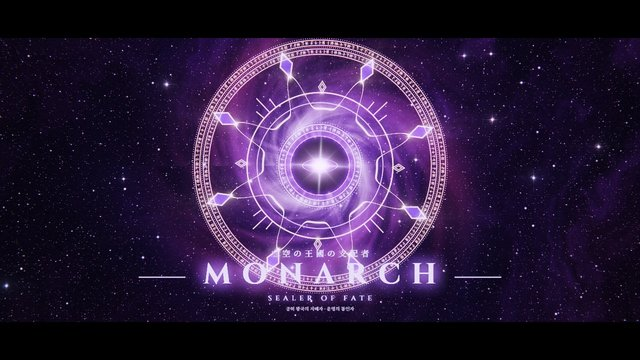
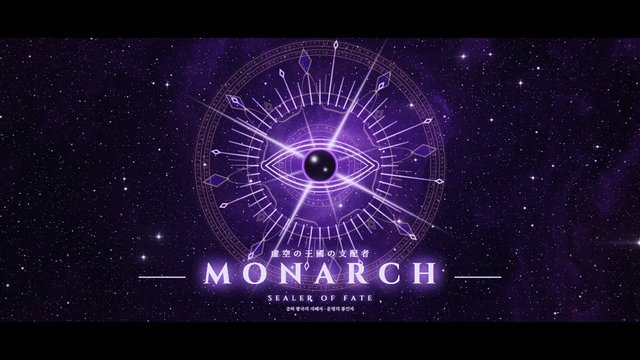
MONARCH V3: central symbol strikes three times at the end
Like the reference ending: an eye in a sunburst of fine rays with a
rotating four-bladed star hits the center at 20.6, 21.3 and 22.0 with a
flash and a thin shockwave; the first two fade, the third holds while
the seal recedes. Title moves to 22.6 and the score gets two more hits.

diff --git a/public/monarch3_gl.html b/public/monarch3_gl.html
@@ -25,7 +25,7 @@
      13.6   흰 섬광 → 13.8 공허: 모든 빛을 삼키는 검은 구, 빨려드는 나선의 빛과 룬의 띠 (모나크의 형체는 그리지 않는다 — 개념만)
      16.6   지배: 세 룬 고리가 공허를 돌고, 만세의 말들이 빛이 되어 무릎 꿇듯 공허로 빨려든다 · 공허에 보랏빛 눈이 뜨인다
      18.6   왕관이라는 개념: 반시계로 도는 여덟 꼭짓점 별과 여덟 다이아 · 서로 반대로 도는 두 후광 · 가운데의 흰 별
-     20.6   운명의 봉인: 모든 고리가 한 평면으로 정렬해 하나의 인장이 되고 21.2 일격 — 虚空の王國の支配者 / MONARCH / SEALER OF FATE
+     20.6   상징이 가운데에 세 번 뜬다(20.6 · 21.3 · 22.0): 가는 빛살 속의 검은 눈 · 도는 네 갈래 칼날 별 → 22.6 虚空の王國の支配者 / MONARCH / SEALER OF FATE
    색: 짙은 보라 공허 · 핏빛으로 번지는 저주 · 흰 별빛 · 남색 · 자홍 성운. 음원: tools/make_monarch3_audio.py (오리지널, 시각표 같음)
    ═══════════════════════════════════════════════════════════════ */
 const TAU = Math.PI * 2, PI = Math.PI;
@@ -40,8 +40,9 @@ const sub = (a, b) => [a[0] - b[0], a[1] - b[1], a[2] - b[2]], add = (a, b) => [
 const cross = (a, b) => [a[1] * b[2] - a[2] * b[1], a[2] * b[0] - a[0] * b[2], a[0] * b[1] - a[1] * b[0]], norm = (a) => { const l = Math.hypot(a[0], a[1], a[2]) || 1; return [a[0] / l, a[1] / l, a[2] / l]; }, mix3 = (a, b, k) => [lerp(a[0], b[0], k), lerp(a[1], b[1], k), lerp(a[2], b[2], k)];
 function camera(pos, tgt, roll) { const f = norm(sub(tgt, pos)), r0 = norm(cross(f, [0, 1, 0])), u0 = cross(r0, f), c = Math.cos(roll), s = Math.sin(roll); return { pos, r: [r0[0] * c + u0[0] * s, r0[1] * c + u0[1] * s, r0[2] * c + u0[2] * s], u: [u0[0] * c - r0[0] * s, u0[1] * c - r0[1] * s, u0[2] * c - r0[2] * s], f }; }
 
-const T = { BG: .5, POP: 1.0, CNT: 1.4, W0: 2.0, LIGHT: 7.8, ZERO: 10.2, FLASH1: 10.4, HAIL: 11.0, FLASH2: 13.6, REVEAL: 13.8, S2: 16.6, S3: 18.6, HERO: 20.6, TITLE: 21.2, END: 26.0 };   // 음원과 같은 시각표
-const CUTS = [T.S2, T.S3, T.HERO], ES = 1.8;                                                                                           // ES: 모나크 배율(셰이더와 같음)
+const T = { BG: .5, POP: 1.0, CNT: 1.4, W0: 2.0, LIGHT: 7.8, ZERO: 10.2, FLASH1: 10.4, HAIL: 11.0, FLASH2: 13.6, REVEAL: 13.8, S2: 16.6, S3: 18.6, HERO: 20.6, TITLE: 22.6, END: 26.0 };
+const SYMS = [20.6, 21.3, 22.0];                                                                                                  // 상징이 뜨는 세 번   // 음원과 같은 시각표
+const CUTS = [T.S2, T.S3], ES = 1.8;                                                                                           // ES: 모나크 배율(셰이더와 같음)
 const KT = 28, TICKS = [...Array(KT + 1)].map((_, k) => T.CNT + (T.ZERO - T.CNT) * Math.pow(k / KT, .6));                              // 인구 계수기 눈금(점점 빨라진다)
 const COUNT = (() => { const r = rng(3000), a = []; for (let k = 0; k <= KT; k++) a.push(k === 0 ? 3e9 : k === KT ? 0 : Math.round(3e9 * (1 - Math.pow(k / KT, 1.35)) * (1 + (r() - .5) * .04))); for (let k = 1; k < KT; k++) a[k] = Math.max(1, Math.min(a[k], a[k - 1] - 1)); return a; })();
 const WORDS = [["IRREVERSIBLE", "돌이킬 수 없는"], ["MERCILESS", "무자비한"], ["GODLESS", "신을 믿지 않는"], ["BLASPHEMY", "신성모독"], ["FALSE SAVIOR", "거짓 구원자"], ["DAMNED", "저주받은"], ["YOU SAVAGE", "이 야만인아"], ["FALL TO RUIN", "폐허로 떨어지다"],
@@ -121,7 +122,7 @@ void main(){
   o = vec4(max(col, 0.), 10.); }`;
 const FS_SIGIL = `#version 300 es
 precision highp float; in vec2 vUv; out vec4 o;
-uniform vec2 uRes; uniform float uT, uZoomV, uRotV, uPanY, uVoidR, uSwirlK, uArmK, uMotes, uEyeK, uCrownK, uHaloK, uStarK, uSealK, uStamp; uniform sampler2D uRunes;
+uniform vec2 uRes; uniform float uT, uZoomV, uRotV, uPanY, uVoidR, uSwirlK, uArmK, uMotes, uEyeK, uCrownK, uHaloK, uStarK, uSealK, uStamp, uSym, uSymS, uBack; uniform sampler2D uRunes;
 ${CSGL.NOISE}
 mat2 rot(float a){ float c = cos(a), s = sin(a); return mat2(c, -s, s, c); }
 float PX;
@@ -147,6 +148,7 @@ void main(){
   float f, lit = exp(-length(c0) * 1.7); vec2 bp = rot(uT * .02 + .3 / (length(c0) + .6)) * c0 * 1.1 / mix(1., uZoomV, .35);                // 배경: 가운데서 비추는 성운 · 세 겹의 별
   vec3 col = vec3(.003, .001, .009) + nebula(bp * .75, lit, uT, f) + vec3(.3, .1, .7) * exp(-length(c0) * 2.5) * .2;
   vec2 sp0 = c0 / mix(1., uZoomV, .5); col += starsL(sp0 * 70. + uT * vec2(.3, -.15), .45, .07) * .45 + starsL(sp0 * 28. + 3.7, .22, .06) * .85 + starsL(c0 / mix(1., uZoomV, .8) * 9. + 1.3, .08, .045) * 1.5;
+  vec3 bgc = col;
   float Rv = .23 * uVoidR, e = r - Rv;
   if (uSwirlK > 0.){ float lr = log(max(r, 1e-3)), spv = an * 3. + lr * 5.5 + uT * 2.4, arms = pow(.5 + .5 * cos(spv), 5.), fil = fbm(vec2(an * 5. + lr * 9. + uT * 1.4, lr * 4. - uT * .8));   // 공허로 빨려드는 세 갈래 나선의 빛
     float fall = smoothstep(Rv, Rv * 1.5, r) * exp(-max(r - Rv, 0.) * 2.6);
@@ -173,7 +175,18 @@ void main(){
     float ai = floor(a1 / 1.5708 + .5), aa = a1 - ai * 1.5708, spikes = 0.; for (int j = -1; j <= 1; j++){ float fj = float(j), L = j == 0 ? .15 : .08; vec2 sd = vec2(cos(aa - fj * .11), sin(aa - fj * .11)) * r; spikes += ln(abs(sd.y), .0022) * step(.58, sd.x) * step(sd.x, .58 + L); }
     float aj = floor((a1 - .785) / 1.5708 + .5), ab = a1 - .785 - aj * 1.5708; vec2 dq = abs(vec2(cos(ab), sin(ab)) * r - vec2(.62, 0.)) / vec2(.047, .029); float dia2 = ln(abs(dq.x + dq.y - 1.) * .025, .0015) + ln(abs(dq.x + dq.y - .55) * .025, .001);   // 두 겹 다이아
     col += gold * (ln(abs(r - .576), .003) * 1.3 + spikes * 1.1 + dia2) * m1 + vec3(.7, .5, 1.) * ln(abs(r - .497), .0018) * m2; }
-  if (uStamp >= 0.){ float rr = length(c0), R = uStamp * 1.7; col += (vec3(1., .85, .6) * exp(-abs(rr - R) * 45.) * 1.4 + vec3(.6, .3, 1.) * exp(-abs(rr - R * .7) * 14.) * .4) * exp(-uStamp * 1.3); }   // 봉인의 일격
+  col = mix(bgc, col, uBack);                                                                                                        // 상징이 뜨면 인장은 뒤로 물러난다
+  if (uSym > 0.){ vec2 p = c0 / uSymS; float r2 = length(p), a = atan(p.y, p.x), n = 48., ai = floor(a / 6.2832 * n + .5), aa = a - ai * 6.2832 / n, big = step(.75, fract(ai / 4.));   // 가운데의 상징: 가는 빛살 속의 검은 눈
+    float L = .4 + .14 * hash(vec2(ai, 3.)) + .12 * big; vec2 rp = vec2(cos(aa), sin(aa)) * r2, tq = rp - vec2(L + .025, 0.);
+    float rays = ln(abs(rp.y), .0012) * step(.34, rp.x) * step(rp.x, L) * (.3 + .7 * smoothstep(L, .34, rp.x)) + ln(abs(abs(tq.x) / .022 + abs(tq.y) / .011 - 1.) * .011, .0012) * big;
+    float W = .3, xx = p.x / W, lid = .12 * max(1. - xx * xx, 0.), de = abs(p.x) < W ? abs(abs(p.y) - lid) : length(vec2(abs(p.x) - W, p.y));   // 눈꺼풀 선 두 겹
+    float lids = ln(de, .0025) * 1.3 + ln(abs(de - .026), .0015) * .6, inside = smoothstep(.101, .099, r2);
+    vec2 q = rot(uT * 1.3) * p, q2 = rot(.785) * q;                                                                                 // 도는 네 갈래 칼날 별
+    float bl = exp(-abs(q.x) * 70. * (1. + abs(q.y) * 7.)) * smoothstep(.9, 0., abs(q.y)) + exp(-abs(q.y) * 70. * (1. + abs(q.x) * 7.)) * smoothstep(.9, 0., abs(q.x));
+    float bl2 = (exp(-abs(q2.x) * 110. * (1. + abs(q2.y) * 9.)) * smoothstep(.45, 0., abs(q2.y)) + exp(-abs(q2.y) * 110. * (1. + abs(q2.x) * 9.)) * smoothstep(.45, 0., abs(q2.x))) * .6;
+    vec3 ball = vec3(.004, 0., .012) + vec3(.4, .14, .9) * smoothstep(.018, 0., abs(r2 - .1)) + vec3(1.) * (exp(-length(p - vec2(-.032, .036)) * 150.) * 1.6 + exp(-length(p - vec2(.03, -.022)) * 240.) * .9);   // 검은 눈알 · 흰 반짝임 둘
+    col = mix(col, ball, inside * min(uSym, 1.)); col += (vec3(.72, .5, 1.) * (rays * .9 + lids) + vec3(.9, .78, 1.) * (bl * 1.05 + bl2 * .8) * (1. - inside * .95) * smoothstep(.06, .16, r2) + vec3(.4, .15, .9) * exp(-r2 * 7.) * .12 * (1. - inside)) * uSym; }
+  if (uStamp >= 0.){ float rr = length(c0), R = uStamp * 1.7; col += (vec3(1., .85, .7) * exp(-abs(rr - R) * 90.) * .8 + vec3(.6, .3, 1.) * exp(-abs(rr - R * .7) * 20.) * .2) * exp(-uStamp * 3.); }   // 봉인의 일격
   o = vec4(max(col, 0.), 10.); }`;
 function lazyProgram(vs, fs) {
   const gl = X.gl, mk = (type, src) => { const sh = gl.createShader(type); gl.shaderSource(sh, src); gl.compileShader(sh); return sh; };
@@ -261,7 +274,7 @@ function drawOverlay(t, S) { SBK = DPR * TXS; tg.setTransform(1, 0, 0, 1, 0, 0);
 /* ═════════════════ 연출: 시각 t → 상태 (순수 함수) ═════════════════ */
 function state(t) {
   const S = { M: [0, 10 * ES, 0], focal: 1.3, focus: 400, aper: 0, eyeK: 1, port: new Float32Array(8), portP: new Float32Array(12), portK: new Float32Array(4), flash: 0, shock: -1, power: 0, crackK: 1, orbI: 1, fade: 0, shake: 0, rays: .1, bloom: .6,
-    zoomV: 1, rotV: 0, panY: 0, voidR: 0, diskK: 0, armK: 0, armA: 0, motes: 0, sealK: 0, stamp: -1, voidK: 0, orbK: 1, auraK: 1, wispK: 1, hornK: 1, crownK: 1, haloK: 1, topK: 1, ringK: 1, emerge: 0, trans: 0, spinA: t * .4, ringA: t * .05, skyRing: 1, bg: 0, iringK: 0, starK: 0, ieyeK: 0, dread: 0, light: 0, hail: 0, spin: 0 };
+    zoomV: 1, rotV: 0, panY: 0, sym: 0, symS: 1, back: 1, voidR: 0, diskK: 0, armK: 0, armA: 0, motes: 0, sealK: 0, stamp: -1, voidK: 0, orbK: 1, auraK: 1, wispK: 1, hornK: 1, crownK: 1, haloK: 1, topK: 1, ringK: 1, emerge: 0, trans: 0, spinA: t * .4, ringA: t * .05, skyRing: 1, bg: 0, iringK: 0, starK: 0, ieyeK: 0, dread: 0, light: 0, hail: 0, spin: 0 };
   const boltP = (lo, hi) => BOLTS.slice(lo, hi).reduce((m, tb) => Math.max(m, pulse(t, tb, .01, .22) * (Math.floor((t - tb) * 30) % 3 !== 1 ? 1 : .3)), 0);
   S.fade = seg(t, T.END - .6, T.END - .1);
   if (t < T.REVEAL) {                                                                                                                   // 인트로
@@ -278,9 +291,11 @@ function state(t) {
     S.armK = eOut(seg(t, T.S2 - .3, T.S2 + 1.)); S.armA = t * .35; S.motes = eInOut(seg(t, T.S2 + .1, T.S3 + .6));
     S.eyeK = eOut(seg(t, T.S2 + .7, T.S2 + 1.1)) * (1 - eIn(seg(t, T.S3 - .3, T.S3))) + .9 * eOut(seg(t, T.TITLE + .6, T.TITLE + 1.4));
     S.crownK = eOut(seg(t, T.S3, T.S3 + 1.3)); S.haloK = eInOut(seg(t, T.S3 + .4, T.S3 + 1.7)); S.starK = eOut(seg(t, T.S3 + .2, T.S3 + .7)) + 1.2 * pulse(t, T.TITLE, .02, .9);
-    S.sealK = eInOut(seg(t, T.HERO, T.TITLE)); S.stamp = t >= T.TITLE ? t - T.TITLE : -1;
-    S.flash = Math.max(3.2 * (1 - eOut(seg(t, T.REVEAL, T.REVEAL + .6))), .5 * boltP(12, 16), 1.1 * pulse(t, T.TITLE, .01, .5));
-    S.shake = Math.max(pulse(t, T.REVEAL, .01, .8), .3 * boltP(12, 16), .7 * pulse(t, T.TITLE, .01, .6));
+    S.sealK = eInOut(seg(t, T.S3 + 1.2, T.HERO)); let sj = -1; SYMS.forEach((p, i) => { if (t >= p) sj = i; }); S.stamp = sj >= 0 ? t - SYMS[sj] : -1;
+    if (sj >= 0) { const p = SYMS[sj], nx = SYMS[sj + 1]; S.sym = eOut(seg(t, p, p + .25)) * (nx ? 1 - .7 * eInOut(seg(t, p + .4, nx - .02)) : 1); S.symS = 1 + .7 * (1 - eOut(seg(t, p, p + .35))); }   // 세 번 뜨는 상징
+    S.back = 1 - .9 * eOut(seg(t, T.HERO - .1, T.HERO + .3));
+    S.flash = Math.max(3.2 * (1 - eOut(seg(t, T.REVEAL, T.REVEAL + .6))), .5 * boltP(12, 16), SYMS.reduce((m, p, i) => Math.max(m, (.9 + .2 * i) * pulse(t, p, .01, .3)), 0));
+    S.shake = Math.max(pulse(t, T.REVEAL, .01, .8), .3 * boltP(12, 16), SYMS.reduce((m, p, i) => Math.max(m, (.6 + .2 * i) * pulse(t, p, .01, .5)), 0));
     let zv, rv, py = 0;                                                                                                               // 2D 보기: 확대 · 회전 · 위로 밀기
     if (t < T.S2) { const k = eOut(seg(t, T.REVEAL, T.S2)); zv = lerp(1.4, 1.1, k); rv = .15 * k; }                                       // 드러난 공허
     else if (t < T.S3) { const k = eInOut(seg(t, T.S2, T.S3)); zv = lerp(.98, .9, k); rv = lerp(-.25, -.1, k); }                          // 지배
@@ -297,7 +312,7 @@ function render(t) {
   drawOverlay(t, S); X.upload(txtTex, tcv, true); gl.disable(gl.DEPTH_TEST); gl.disable(gl.BLEND);
   if (intro) { const pr = P.intro(), u = pr.u; X.pass(pr, TG, () => { gl.uniform2f(u.uRes, sw, sh); for (const [n, v] of [["uT", t], ["uBG", S.bg], ["uRingA", S.ringA], ["uRingK", S.iringK], ["uStarK", S.starK], ["uEyeK", S.ieyeK], ["uDread", S.dread], ["uLight", S.light], ["uHail", S.hail]]) if (u[n] != null) gl.uniform1f(u[n], v); if (u.uRunes != null) X.bindTex(6, runeTex, u.uRunes); }); }
   else { const pr = P.sigil(), u = pr.u; X.pass(pr, TG, () => { gl.uniform2f(u.uRes, sw, sh);
-    for (const [n, v] of [["uT", t], ["uZoomV", S.zoomV], ["uRotV", S.rotV], ["uPanY", S.panY], ["uVoidR", S.voidR], ["uSwirlK", S.diskK], ["uArmK", S.armK], ["uMotes", S.motes], ["uEyeK", S.eyeK], ["uCrownK", S.crownK], ["uHaloK", S.haloK], ["uStarK", S.starK], ["uSealK", S.sealK], ["uStamp", S.stamp]]) if (u[n] != null) gl.uniform1f(u[n], v);
+    for (const [n, v] of [["uT", t], ["uZoomV", S.zoomV], ["uRotV", S.rotV], ["uPanY", S.panY], ["uVoidR", S.voidR], ["uSwirlK", S.diskK], ["uArmK", S.armK], ["uMotes", S.motes], ["uEyeK", S.eyeK], ["uCrownK", S.crownK], ["uHaloK", S.haloK], ["uStarK", S.starK], ["uSealK", S.sealK], ["uStamp", S.stamp], ["uSym", S.sym], ["uSymS", S.symS], ["uBack", S.back]]) if (u[n] != null) gl.uniform1f(u[n], v);
     if (u.uRunes != null) X.bindTex(6, runeTex, u.uRunes); }); }
   const lp = [Wd / 2, Hd / 2 - (intro ? 0 : S.panY * Hd / 2)], bloomTex = X.bloom(TG.tex, 1.1), raysTex = X.rays(lp ? clamp(lp[0] / Wd) : .5, lp ? clamp(1 - lp[1] / Hd) : .9, .92), r0 = rng(Math.floor(t * 60)), hit = S.shake;
   X.pass(P.final(), null, (u2) => { X.bindTex(0, TG.tex, u2.uScene); X.bindTex(1, bloomTex, u2.uBloom); X.bindTex(2, txtTex, u2.uTxt); X.bindTex(3, raysTex, u2.uRays); gl.uniform2f(u2.uRes, pw, ph); gl.uniform1f(u2.uT, t);

diff --git a/public/cutscenes.html b/public/cutscenes.html
@@ -100,7 +100,7 @@ const CUTSCENES = [
     desc: "차가운 밤, 일식 아래 버려진 흑요석 옥좌. 땅이 갈라지며 190m 의 몸이 옥좌를 떠받친 채 솟고, 공허 속에서 눈이 뜨이고, 왕관이 조립되어 씌워진다. 그리고 멸망 — 북소리마다 구슬이 땅에 빛줄기를 내리꽂아 불덩이와 바위가 치솟고, 용암 균열이 번지고, 오벨리스크가 쓰러지고, 유성이 쏟아지고, 산맥이 무너지고, 하늘이 찢어진다. 사방으로 쏟아진 빛줄기와 충격파가 세계를 용암 바다로 만들고 일식이 갈라져 붉게 탄다. 사람 없음 · 4K 저장.",
     tags: ["WebGL2", "3D 레이마칭", "세계 멸망"], needsAudio: true },
   { id: "monarch3", title: "MONARCH V3", ko: "모나크 · 운명의 봉인자", page: "/monarch3_gl.html", kit: true, thumb: "/thumbs/monarch3.jpg", dur: "0:26",
-    desc: "어둠 속에서 짙은 보라 공허와 룬 고리가 떠오르고, POPULATION 3,000,000,000 이 떨어진다. 고리 양옆으로 돌이킬 수 없는 · 무자비한 · 당신은 우리에게 거짓말을 했어요… 어두운 말이 속삭임과 함께 쌓이고, 번개와 함께 숫자가 0 이 되는 순간 흰 섬광 — 눈 모양 룬 뒤에서 보랏빛 별이 돈다. 모든 말이 ALL HAIL! 로 바뀌고 고리가 세 바퀴 돈 뒤, 형체 없는 모나크: 빛을 삼키는 공허와 빨려드는 나선, 도는 룬 고리와 무릎 꿇는 빛, 공허에 뜨이는 눈, 여덟 꼭짓점 별과 두 후광이 금빛 인장으로 봉인된다. 전부 2D · 4K 저장.",
+    desc: "어둠 속에서 짙은 보라 공허와 룬 고리가 떠오르고, POPULATION 3,000,000,000 이 떨어진다. 고리 양옆으로 돌이킬 수 없는 · 무자비한 · 당신은 우리에게 거짓말을 했어요… 어두운 말이 속삭임과 함께 쌓이고, 번개와 함께 숫자가 0 이 되는 순간 흰 섬광 — 눈 모양 룬 뒤에서 보랏빛 별이 돈다. 모든 말이 ALL HAIL! 로 바뀌고 고리가 세 바퀴 돈 뒤, 형체 없는 모나크: 빛을 삼키는 공허와 빨려드는 나선, 도는 룬 고리와 무릎 꿇는 빛, 공허에 뜨이는 눈, 여덟 꼭짓점 별과 두 후광이 금빛 인장으로 봉인되고, 마지막엔 가는 빛살 속의 검은 눈과 도는 칼날 별 — 상징이 가운데에 세 번 뜬다. 전부 2D · 4K 저장.",
     tags: ["WebGL2", "3D 레이마칭", "오리지널 음악"], needsAudio: true },
 ];
 

diff --git a/tools/make_monarch3_audio.py b/tools/make_monarch3_audio.py
@@ -1,6 +1,6 @@
 # -*- coding: utf-8 -*-
 """MONARCH V3 음원 — 직접 합성한 오리지널(결과 mp3 는 로컬 전용).
-흐름(초): 0.5 어둠 속 계수기(팀파니 눈금 · 속삭임) → 7.8 번개 → 10.4 섬광 · 별 → 11.0 만세 셋 → 13.6 섬광 → 13.8 모나크(오르간 · 합창) → 20.6 마지막 화음 → 26 끝
+흐름(초): 0.5 어둠 속 계수기(팀파니 눈금 · 속삭임) → 7.8 번개 → 10.4 섬광 · 별 → 11.0 만세 셋 → 13.6 섬광 → 13.8 공허(오르간 · 합창) → 20.6 · 21.3 · 22.0 상징의 일격 셋 → 22.6 이름 → 26 끝
 페이지(monarch3_gl.html)의 시각표와 같은 값을 쓴다."""
 import os, subprocess
 import numpy as np
@@ -10,7 +10,7 @@ SR, END = 44100, 26.0
 N = int(END * SR)
 PUB = os.path.join(os.path.dirname(os.path.dirname(os.path.abspath(__file__))), "public") + os.sep
 rs = np.random.RandomState(11)
-T = dict(BG=.5, POP=1.0, CNT=1.4, W0=2.0, LIGHT=7.8, ZERO=10.2, FLASH1=10.4, HAIL=11.0, FLASH2=13.6, REVEAL=13.8, S2=16.6, S3=18.6, HERO=20.6, TITLE=21.2)
+T = dict(BG=.5, POP=1.0, CNT=1.4, W0=2.0, LIGHT=7.8, ZERO=10.2, FLASH1=10.4, HAIL=11.0, FLASH2=13.6, REVEAL=13.8, S2=16.6, S3=18.6, HERO=20.6, TITLE=22.6)
 def S(t): return int(round(t * SR))
 def bp(lo, hi, x, order=2): return sosfilt(butter(order, [lo, hi], "bandpass", fs=SR, output="sos"), x)
 def lp(f, x, order=2): return sosfilt(butter(order, f, "lowpass", fs=SR, output="sos"), x)
@@ -118,6 +118,8 @@ for tb in BOLTS[12:]: add(FX, thunder(.5, 2.5, int(tb * 10)), tb, -.5 + rs.rand(
 add(M, bell(mid(61), .3), T["S3"], -.3); add(M, bell(mid(68), .25), T["S3"] + .5, .3)
 add(M, organ([25, 37, 44, 49, 52, 56, 61], 5., .55, att=.05, rel=2.4), T["HERO"]); add(M, choir([61, 64, 68, 73, 75], 5., .5, att=.08, rel=2.4), T["HERO"])
 add(M, brass([37, 44, 49, 56], 4., .7, att=.03, rel=2.2, bright=1.), T["HERO"]); add(M, gong(1.0, 5.), T["HERO"]); add(M, taiko(1.2, 46), T["HERO"])
+for i, tp in enumerate((21.3, 22.0)):                                                                   # 상징이 두 번 더 뜬다(20.6 의 일격과 합쳐 셋)
+    add(M, taiko(1.0 + .1 * i, 46), tp); add(M, brass([37 + 2 * i, 44 + 2 * i, 49 + 2 * i, 56 + 2 * i], 1.0, .8 + .1 * i, att=.02, rel=.6, bright=1.1), tp); add(M, gong(.55 + .1 * i, 3.), tp); add(FX, thunder(.55, 2.5, 40 + i), tp)
 add(M, bell(mid(73), .35), T["TITLE"], .2); add(M, bell(mid(80), .22), T["TITLE"] + .02, -.2)
 
 def verb(buf, sec=3.6, dec=1.7, wet=.32, seed=3):                                  # 큰 궁전의 잔향
